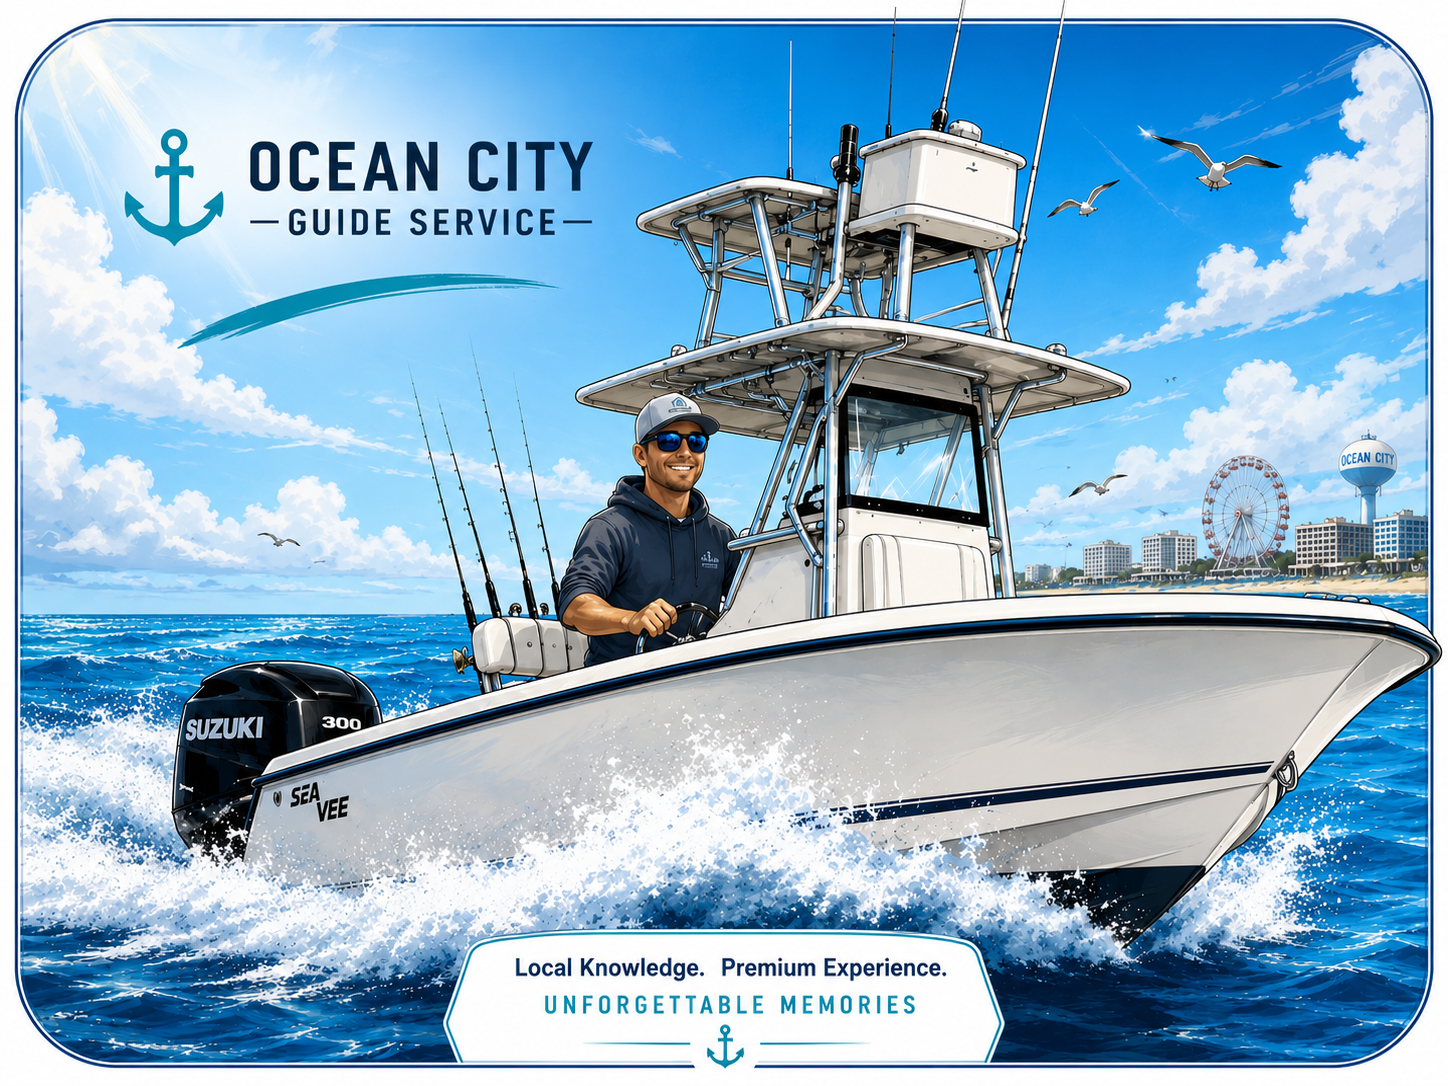
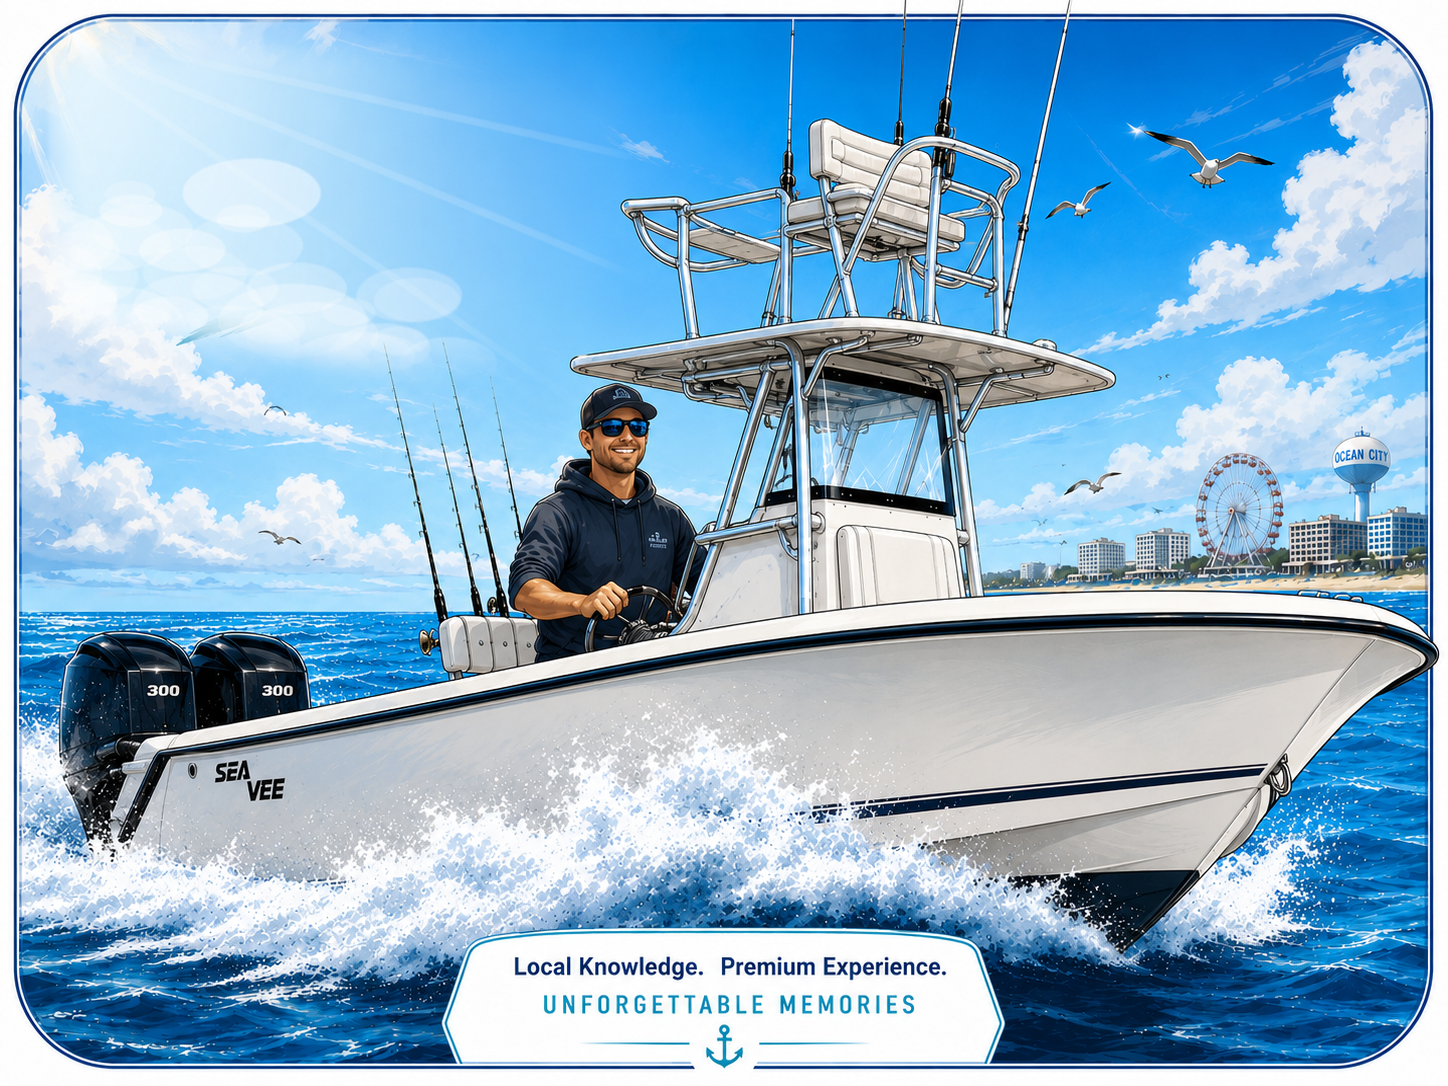
updated images

diff --git a/src/data/site.ts b/src/data/site.ts
@@ -154,7 +154,7 @@ export const site = {
     "All charters accommodate up to 6 guests. License, bait, and tackle are provided for each trip option as well. Please remember to tip the mate.",
   phone: "856-357-3113",
   smsPhone: "856-357-3113",
-  email: "[email redacted]",
+  email: "[email redacted]",
   marinaName: "Ocean City Guide Service",
   marinaAddress: "12940 Inlet Isle Lane, Ocean City, MD 21842",
   marinaDirectionsNote:
@@ -166,7 +166,7 @@ export const site = {
   facebookImage: "social/facebook-card.png",
   youtubeUrl: "https://www.youtube.com/watch?v=Q10Z3CSnYoQ&t=39s",
   tiktokUrl: "#",
-  calComLink: "your-cal-username/fishing-charter",
+  calComLink: "KylePelino/fishing-charter",
   calComEventSlug: "fishing-charter",
   primaryCTA: "Check Availability",
   secondaryCTA: "Call/Text Captain",